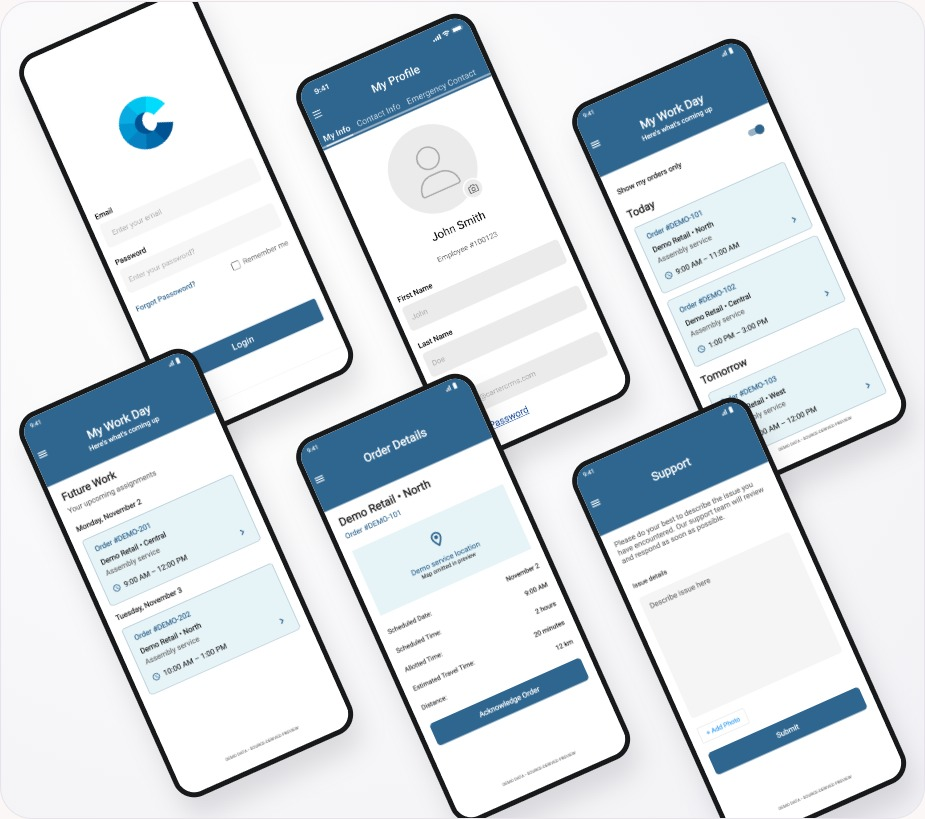
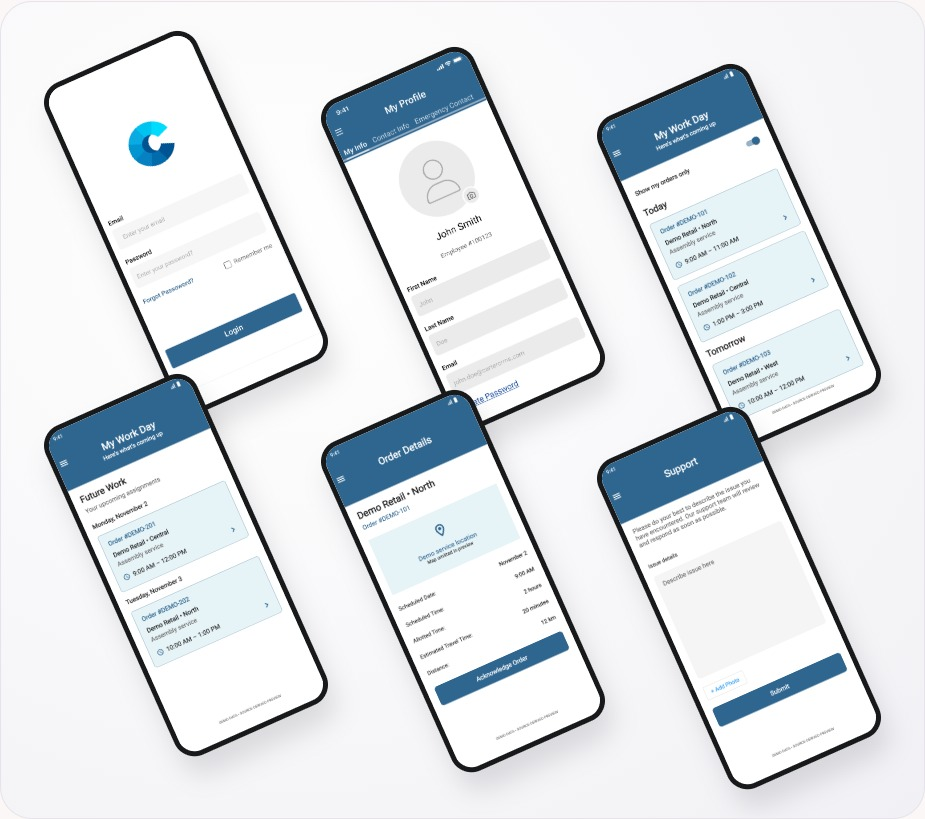
Keep Carter collage devices within frame and remove unused image duplicates

diff --git a/site/public/interactions/index.html b/site/public/interactions/index.html
@@ -1,4 +1,4 @@
-<!doctype html><html lang="en"><head><meta charset="utf-8"><meta name="viewport" content="width=device-width,initial-scale=1"><meta name="description" content="Gideon Ogbonna — Mobile & AI Engineer in Calgary. Thoughtful interfaces, reliable systems and human-centred AI."><link rel="canonical" href="https://gideonogbonna.dev/interactions/"><meta property="og:title" content="Client & team work — Gideon Ogbonna"><meta property="og:description" content="Gideon Ogbonna — Mobile & AI Engineer in Calgary. Thoughtful interfaces, reliable systems and human-centred AI."><meta property="og:type" content="website"><meta property="og:image" content="https://gideonogbonna.dev/assets/gideon-portrait.png"><meta name="theme-color" content="#f6f5f1"><title>Client & team work — Gideon Ogbonna</title><link rel="icon" href="/assets/gideon-logo.png"><link rel="stylesheet" href="/style.css?v=7bf13c7cb23f"><link rel="stylesheet" href="/reference.css?v=7b5f202a26aa"><link rel="stylesheet" href="/revision.css?v=392ed2de0eda"><link rel="stylesheet" href="/polish.css?v=a782f4869350"><link rel="stylesheet" href="/v2.css?v=24227c3ee307"><script src="/gallery.js?v=a1aa02686e3c" defer></script><script src="/app.js?v=1c5a148639c2" defer></script><script src="/motion.js?v=d562b8793593" defer></script></head><body><a class="skip" href="#main">Skip to content</a>
+<!doctype html><html lang="en"><head><meta charset="utf-8"><meta name="viewport" content="width=device-width,initial-scale=1"><meta name="description" content="Gideon Ogbonna — Mobile & AI Engineer in Calgary. Thoughtful interfaces, reliable systems and human-centred AI."><link rel="canonical" href="https://gideonogbonna.dev/interactions/"><meta property="og:title" content="Client & team work — Gideon Ogbonna"><meta property="og:description" content="Gideon Ogbonna — Mobile & AI Engineer in Calgary. Thoughtful interfaces, reliable systems and human-centred AI."><meta property="og:type" content="website"><meta property="og:image" content="https://gideonogbonna.dev/assets/gideon-portrait.png"><meta name="theme-color" content="#f6f5f1"><title>Client & team work — Gideon Ogbonna</title><link rel="icon" href="/assets/gideon-logo.png"><link rel="stylesheet" href="/style.css?v=7bf13c7cb23f"><link rel="stylesheet" href="/reference.css?v=7b5f202a26aa"><link rel="stylesheet" href="/revision.css?v=392ed2de0eda"><link rel="stylesheet" href="/polish.css?v=a782f4869350"><link rel="stylesheet" href="/v2.css?v=62aa0b123650"><script src="/gallery.js?v=a1aa02686e3c" defer></script><script src="/app.js?v=1c5a148639c2" defer></script><script src="/motion.js?v=d562b8793593" defer></script></head><body><a class="skip" href="#main">Skip to content</a>
 <header>
  <a class="brand" href="/" aria-label="Gideon Ogbonna home"><img class="brand-logo" src="/assets/gideon-logo.png" alt="Gideon"></a>
  <div class="header-right"><button class="theme icon" aria-label="Switch colour theme">◔</button><nav aria-label="Main navigation"><a href="/work/">Personal work</a><a href="/client-work/">Client work</a><a href="/#about">About</a><a href="/resume/">Résumé</a></nav><a class="outline contact-link" href="/#contact">Let’s talk <span>↗</span></a><button class="menu icon" aria-label="Open menu" aria-controls="menu-dialog" aria-expanded="false"><span></span><span></span></button></div>

diff --git a/site/public/client-work/index.html b/site/public/client-work/index.html
@@ -1,4 +1,4 @@
-<!doctype html><html lang="en"><head><meta charset="utf-8"><meta name="viewport" content="width=device-width,initial-scale=1"><meta name="description" content="Gideon Ogbonna — Mobile & AI Engineer in Calgary. Thoughtful interfaces, reliable systems and human-centred AI."><link rel="canonical" href="https://gideonogbonna.dev/client-work/"><meta property="og:title" content="Client & team work — Gideon Ogbonna"><meta property="og:description" content="Gideon Ogbonna — Mobile & AI Engineer in Calgary. Thoughtful interfaces, reliable systems and human-centred AI."><meta property="og:type" content="website"><meta property="og:image" content="https://gideonogbonna.dev/assets/gideon-portrait.png"><meta name="theme-color" content="#f6f5f1"><title>Client & team work — Gideon Ogbonna</title><link rel="icon" href="/assets/gideon-logo.png"><link rel="stylesheet" href="/style.css?v=7bf13c7cb23f"><link rel="stylesheet" href="/reference.css?v=7b5f202a26aa"><link rel="stylesheet" href="/revision.css?v=392ed2de0eda"><link rel="stylesheet" href="/polish.css?v=a782f4869350"><link rel="stylesheet" href="/v2.css?v=24227c3ee307"><script src="/gallery.js?v=a1aa02686e3c" defer></script><script src="/app.js?v=1c5a148639c2" defer></script><script src="/motion.js?v=d562b8793593" defer></script></head><body><a class="skip" href="#main">Skip to content</a>
+<!doctype html><html lang="en"><head><meta charset="utf-8"><meta name="viewport" content="width=device-width,initial-scale=1"><meta name="description" content="Gideon Ogbonna — Mobile & AI Engineer in Calgary. Thoughtful interfaces, reliable systems and human-centred AI."><link rel="canonical" href="https://gideonogbonna.dev/client-work/"><meta property="og:title" content="Client & team work — Gideon Ogbonna"><meta property="og:description" content="Gideon Ogbonna — Mobile & AI Engineer in Calgary. Thoughtful interfaces, reliable systems and human-centred AI."><meta property="og:type" content="website"><meta property="og:image" content="https://gideonogbonna.dev/assets/gideon-portrait.png"><meta name="theme-color" content="#f6f5f1"><title>Client & team work — Gideon Ogbonna</title><link rel="icon" href="/assets/gideon-logo.png"><link rel="stylesheet" href="/style.css?v=7bf13c7cb23f"><link rel="stylesheet" href="/reference.css?v=7b5f202a26aa"><link rel="stylesheet" href="/revision.css?v=392ed2de0eda"><link rel="stylesheet" href="/polish.css?v=a782f4869350"><link rel="stylesheet" href="/v2.css?v=62aa0b123650"><script src="/gallery.js?v=a1aa02686e3c" defer></script><script src="/app.js?v=1c5a148639c2" defer></script><script src="/motion.js?v=d562b8793593" defer></script></head><body><a class="skip" href="#main">Skip to content</a>
 <header>
  <a class="brand" href="/" aria-label="Gideon Ogbonna home"><img class="brand-logo" src="/assets/gideon-logo.png" alt="Gideon"></a>
  <div class="header-right"><button class="theme icon" aria-label="Switch colour theme">◔</button><nav aria-label="Main navigation"><a href="/work/">Personal work</a><a href="/client-work/">Client work</a><a href="/#about">About</a><a href="/resume/">Résumé</a></nav><a class="outline contact-link" href="/#contact">Let’s talk <span>↗</span></a><button class="menu icon" aria-label="Open menu" aria-controls="menu-dialog" aria-expanded="false"><span></span><span></span></button></div>

diff --git a/site/public/index.html b/site/public/index.html
@@ -1,4 +1,4 @@
-<!doctype html><html lang="en"><head><meta charset="utf-8"><meta name="viewport" content="width=device-width,initial-scale=1"><meta name="description" content="Gideon Ogbonna — Mobile & AI Engineer in Calgary. Thoughtful interfaces, reliable systems and human-centred AI."><link rel="canonical" href="https://gideonogbonna.dev/"><meta property="og:title" content="Mobile & AI Engineer — Gideon Ogbonna"><meta property="og:description" content="Gideon Ogbonna — Mobile & AI Engineer in Calgary. Thoughtful interfaces, reliable systems and human-centred AI."><meta property="og:type" content="website"><meta property="og:image" content="https://gideonogbonna.dev/assets/gideon-portrait.png"><meta name="theme-color" content="#f6f5f1"><title>Mobile & AI Engineer — Gideon Ogbonna</title><link rel="icon" href="/assets/gideon-logo.png"><link rel="stylesheet" href="/style.css?v=7bf13c7cb23f"><link rel="stylesheet" href="/reference.css?v=7b5f202a26aa"><link rel="stylesheet" href="/revision.css?v=392ed2de0eda"><link rel="stylesheet" href="/polish.css?v=a782f4869350"><link rel="stylesheet" href="/v2.css?v=24227c3ee307"><script src="/gallery.js?v=a1aa02686e3c" defer></script><script src="/app.js?v=1c5a148639c2" defer></script><script src="/motion.js?v=d562b8793593" defer></script></head><body><a class="skip" href="#main">Skip to content</a>
+<!doctype html><html lang="en"><head><meta charset="utf-8"><meta name="viewport" content="width=device-width,initial-scale=1"><meta name="description" content="Gideon Ogbonna — Mobile & AI Engineer in Calgary. Thoughtful interfaces, reliable systems and human-centred AI."><link rel="canonical" href="https://gideonogbonna.dev/"><meta property="og:title" content="Mobile & AI Engineer — Gideon Ogbonna"><meta property="og:description" content="Gideon Ogbonna — Mobile & AI Engineer in Calgary. Thoughtful interfaces, reliable systems and human-centred AI."><meta property="og:type" content="website"><meta property="og:image" content="https://gideonogbonna.dev/assets/gideon-portrait.png"><meta name="theme-color" content="#f6f5f1"><title>Mobile & AI Engineer — Gideon Ogbonna</title><link rel="icon" href="/assets/gideon-logo.png"><link rel="stylesheet" href="/style.css?v=7bf13c7cb23f"><link rel="stylesheet" href="/reference.css?v=7b5f202a26aa"><link rel="stylesheet" href="/revision.css?v=392ed2de0eda"><link rel="stylesheet" href="/polish.css?v=a782f4869350"><link rel="stylesheet" href="/v2.css?v=62aa0b123650"><script src="/gallery.js?v=a1aa02686e3c" defer></script><script src="/app.js?v=1c5a148639c2" defer></script><script src="/motion.js?v=d562b8793593" defer></script></head><body><a class="skip" href="#main">Skip to content</a>
 <header>
  <a class="brand" href="/" aria-label="Gideon Ogbonna home"><img class="brand-logo" src="/assets/gideon-logo.png" alt="Gideon"></a>
  <div class="header-right"><button class="theme icon" aria-label="Switch colour theme">◔</button><nav aria-label="Main navigation"><a href="/work/">Personal work</a><a href="/client-work/">Client work</a><a href="/#about">About</a><a href="/resume/">Résumé</a></nav><a class="outline contact-link" href="/#contact">Let’s talk <span>↗</span></a><button class="menu icon" aria-label="Open menu" aria-controls="menu-dialog" aria-expanded="false"><span></span><span></span></button></div>

diff --git a/site/public/work/index.html b/site/public/work/index.html
@@ -1,4 +1,4 @@
-<!doctype html><html lang="en"><head><meta charset="utf-8"><meta name="viewport" content="width=device-width,initial-scale=1"><meta name="description" content="Gideon Ogbonna — Mobile & AI Engineer in Calgary. Thoughtful interfaces, reliable systems and human-centred AI."><link rel="canonical" href="https://gideonogbonna.dev/work/"><meta property="og:title" content="Personal projects — Gideon Ogbonna"><meta property="og:description" content="Gideon Ogbonna — Mobile & AI Engineer in Calgary. Thoughtful interfaces, reliable systems and human-centred AI."><meta property="og:type" content="website"><meta property="og:image" content="https://gideonogbonna.dev/assets/gideon-portrait.png"><meta name="theme-color" content="#f6f5f1"><title>Personal projects — Gideon Ogbonna</title><link rel="icon" href="/assets/gideon-logo.png"><link rel="stylesheet" href="/style.css?v=7bf13c7cb23f"><link rel="stylesheet" href="/reference.css?v=7b5f202a26aa"><link rel="stylesheet" href="/revision.css?v=392ed2de0eda"><link rel="stylesheet" href="/polish.css?v=a782f4869350"><link rel="stylesheet" href="/v2.css?v=24227c3ee307"><script src="/gallery.js?v=a1aa02686e3c" defer></script><script src="/app.js?v=1c5a148639c2" defer></script><script src="/motion.js?v=d562b8793593" defer></script></head><body><a class="skip" href="#main">Skip to content</a>
+<!doctype html><html lang="en"><head><meta charset="utf-8"><meta name="viewport" content="width=device-width,initial-scale=1"><meta name="description" content="Gideon Ogbonna — Mobile & AI Engineer in Calgary. Thoughtful interfaces, reliable systems and human-centred AI."><link rel="canonical" href="https://gideonogbonna.dev/work/"><meta property="og:title" content="Personal projects — Gideon Ogbonna"><meta property="og:description" content="Gideon Ogbonna — Mobile & AI Engineer in Calgary. Thoughtful interfaces, reliable systems and human-centred AI."><meta property="og:type" content="website"><meta property="og:image" content="https://gideonogbonna.dev/assets/gideon-portrait.png"><meta name="theme-color" content="#f6f5f1"><title>Personal projects — Gideon Ogbonna</title><link rel="icon" href="/assets/gideon-logo.png"><link rel="stylesheet" href="/style.css?v=7bf13c7cb23f"><link rel="stylesheet" href="/reference.css?v=7b5f202a26aa"><link rel="stylesheet" href="/revision.css?v=392ed2de0eda"><link rel="stylesheet" href="/polish.css?v=a782f4869350"><link rel="stylesheet" href="/v2.css?v=62aa0b123650"><script src="/gallery.js?v=a1aa02686e3c" defer></script><script src="/app.js?v=1c5a148639c2" defer></script><script src="/motion.js?v=d562b8793593" defer></script></head><body><a class="skip" href="#main">Skip to content</a>
 <header>
  <a class="brand" href="/" aria-label="Gideon Ogbonna home"><img class="brand-logo" src="/assets/gideon-logo.png" alt="Gideon"></a>
  <div class="header-right"><button class="theme icon" aria-label="Switch colour theme">◔</button><nav aria-label="Main navigation"><a href="/work/">Personal work</a><a href="/client-work/">Client work</a><a href="/#about">About</a><a href="/resume/">Résumé</a></nav><a class="outline contact-link" href="/#contact">Let’s talk <span>↗</span></a><button class="menu icon" aria-label="Open menu" aria-controls="menu-dialog" aria-expanded="false"><span></span><span></span></button></div>

diff --git a/site/public/404.html b/site/public/404.html
@@ -1,4 +1,4 @@
-<!doctype html><html lang="en"><head><meta charset="utf-8"><meta name="viewport" content="width=device-width,initial-scale=1"><meta name="description" content="Gideon Ogbonna — Mobile & AI Engineer in Calgary. Thoughtful interfaces, reliable systems and human-centred AI."><link rel="canonical" href="https://gideonogbonna.dev/404.html"><meta property="og:title" content="Page not found — Gideon Ogbonna"><meta property="og:description" content="Gideon Ogbonna — Mobile & AI Engineer in Calgary. Thoughtful interfaces, reliable systems and human-centred AI."><meta property="og:type" content="website"><meta property="og:image" content="https://gideonogbonna.dev/assets/gideon-portrait.png"><meta name="theme-color" content="#f6f5f1"><title>Page not found — Gideon Ogbonna</title><link rel="icon" href="/assets/gideon-logo.png"><link rel="stylesheet" href="/style.css?v=7bf13c7cb23f"><link rel="stylesheet" href="/reference.css?v=7b5f202a26aa"><link rel="stylesheet" href="/revision.css?v=392ed2de0eda"><link rel="stylesheet" href="/polish.css?v=a782f4869350"><link rel="stylesheet" href="/v2.css?v=24227c3ee307"><script src="/gallery.js?v=a1aa02686e3c" defer></script><script src="/app.js?v=1c5a148639c2" defer></script><script src="/motion.js?v=d562b8793593" defer></script></head><body><a class="skip" href="#main">Skip to content</a>
+<!doctype html><html lang="en"><head><meta charset="utf-8"><meta name="viewport" content="width=device-width,initial-scale=1"><meta name="description" content="Gideon Ogbonna — Mobile & AI Engineer in Calgary. Thoughtful interfaces, reliable systems and human-centred AI."><link rel="canonical" href="https://gideonogbonna.dev/404.html"><meta property="og:title" content="Page not found — Gideon Ogbonna"><meta property="og:description" content="Gideon Ogbonna — Mobile & AI Engineer in Calgary. Thoughtful interfaces, reliable systems and human-centred AI."><meta property="og:type" content="website"><meta property="og:image" content="https://gideonogbonna.dev/assets/gideon-portrait.png"><meta name="theme-color" content="#f6f5f1"><title>Page not found — Gideon Ogbonna</title><link rel="icon" href="/assets/gideon-logo.png"><link rel="stylesheet" href="/style.css?v=7bf13c7cb23f"><link rel="stylesheet" href="/reference.css?v=7b5f202a26aa"><link rel="stylesheet" href="/revision.css?v=392ed2de0eda"><link rel="stylesheet" href="/polish.css?v=a782f4869350"><link rel="stylesheet" href="/v2.css?v=62aa0b123650"><script src="/gallery.js?v=a1aa02686e3c" defer></script><script src="/app.js?v=1c5a148639c2" defer></script><script src="/motion.js?v=d562b8793593" defer></script></head><body><a class="skip" href="#main">Skip to content</a>
 <header>
  <a class="brand" href="/" aria-label="Gideon Ogbonna home"><img class="brand-logo" src="/assets/gideon-logo.png" alt="Gideon"></a>
  <div class="header-right"><button class="theme icon" aria-label="Switch colour theme">◔</button><nav aria-label="Main navigation"><a href="/work/">Personal work</a><a href="/client-work/">Client work</a><a href="/#about">About</a><a href="/resume/">Résumé</a></nav><a class="outline contact-link" href="/#contact">Let’s talk <span>↗</span></a><button class="menu icon" aria-label="Open menu" aria-controls="menu-dialog" aria-expanded="false"><span></span><span></span></button></div>

diff --git a/site/public/resume/index.html b/site/public/resume/index.html
@@ -1,4 +1,4 @@
-<!doctype html><html lang="en"><head><meta charset="utf-8"><meta name="viewport" content="width=device-width,initial-scale=1"><meta name="description" content="Gideon Ogbonna — Mobile & AI Engineer in Calgary. Thoughtful interfaces, reliable systems and human-centred AI."><link rel="canonical" href="https://gideonogbonna.dev/resume/"><meta property="og:title" content="Résumé — Gideon Ogbonna"><meta property="og:description" content="Gideon Ogbonna — Mobile & AI Engineer in Calgary. Thoughtful interfaces, reliable systems and human-centred AI."><meta property="og:type" content="website"><meta property="og:image" content="https://gideonogbonna.dev/assets/gideon-portrait.png"><meta name="theme-color" content="#f6f5f1"><title>Résumé — Gideon Ogbonna</title><link rel="icon" href="/assets/gideon-logo.png"><link rel="stylesheet" href="/style.css?v=7bf13c7cb23f"><link rel="stylesheet" href="/reference.css?v=7b5f202a26aa"><link rel="stylesheet" href="/revision.css?v=392ed2de0eda"><link rel="stylesheet" href="/polish.css?v=a782f4869350"><link rel="stylesheet" href="/v2.css?v=24227c3ee307"><script src="/gallery.js?v=a1aa02686e3c" defer></script><script src="/app.js?v=1c5a148639c2" defer></script><script src="/motion.js?v=d562b8793593" defer></script></head><body><a class="skip" href="#main">Skip to content</a>
+<!doctype html><html lang="en"><head><meta charset="utf-8"><meta name="viewport" content="width=device-width,initial-scale=1"><meta name="description" content="Gideon Ogbonna — Mobile & AI Engineer in Calgary. Thoughtful interfaces, reliable systems and human-centred AI."><link rel="canonical" href="https://gideonogbonna.dev/resume/"><meta property="og:title" content="Résumé — Gideon Ogbonna"><meta property="og:description" content="Gideon Ogbonna — Mobile & AI Engineer in Calgary. Thoughtful interfaces, reliable systems and human-centred AI."><meta property="og:type" content="website"><meta property="og:image" content="https://gideonogbonna.dev/assets/gideon-portrait.png"><meta name="theme-color" content="#f6f5f1"><title>Résumé — Gideon Ogbonna</title><link rel="icon" href="/assets/gideon-logo.png"><link rel="stylesheet" href="/style.css?v=7bf13c7cb23f"><link rel="stylesheet" href="/reference.css?v=7b5f202a26aa"><link rel="stylesheet" href="/revision.css?v=392ed2de0eda"><link rel="stylesheet" href="/polish.css?v=a782f4869350"><link rel="stylesheet" href="/v2.css?v=62aa0b123650"><script src="/gallery.js?v=a1aa02686e3c" defer></script><script src="/app.js?v=1c5a148639c2" defer></script><script src="/motion.js?v=d562b8793593" defer></script></head><body><a class="skip" href="#main">Skip to content</a>
 <header>
  <a class="brand" href="/" aria-label="Gideon Ogbonna home"><img class="brand-logo" src="/assets/gideon-logo.png" alt="Gideon"></a>
  <div class="header-right"><button class="theme icon" aria-label="Switch colour theme">◔</button><nav aria-label="Main navigation"><a href="/work/">Personal work</a><a href="/client-work/">Client work</a><a href="/#about">About</a><a href="/resume/">Résumé</a></nav><a class="outline contact-link" href="/#contact">Let’s talk <span>↗</span></a><button class="menu icon" aria-label="Open menu" aria-controls="menu-dialog" aria-expanded="false"><span></span><span></span></button></div>

diff --git a/site/public/projects/rightq-welcomer/index.html b/site/public/projects/rightq-welcomer/index.html
@@ -1,4 +1,4 @@
-<!doctype html><html lang="en"><head><meta charset="utf-8"><meta name="viewport" content="width=device-width,initial-scale=1"><meta name="description" content="A mobile companion for front-desk teams, connecting service selection with a place in the queue."><link rel="canonical" href="https://gideonogbonna.dev/projects/rightq-welcomer/"><meta property="og:title" content="RightQ Welcomer — Gideon Ogbonna"><meta property="og:description" content="A mobile companion for front-desk teams, connecting service selection with a place in the queue."><meta property="og:type" content="website"><meta property="og:image" content="https://gideonogbonna.dev/assets/gideon-portrait.png"><meta name="theme-color" content="#f6f5f1"><title>RightQ Welcomer — Gideon Ogbonna</title><link rel="icon" href="/assets/gideon-logo.png"><link rel="stylesheet" href="/style.css?v=7bf13c7cb23f"><link rel="stylesheet" href="/reference.css?v=7b5f202a26aa"><link rel="stylesheet" href="/revision.css?v=392ed2de0eda"><link rel="stylesheet" href="/polish.css?v=a782f4869350"><link rel="stylesheet" href="/v2.css?v=24227c3ee307"><script src="/gallery.js?v=a1aa02686e3c" defer></script><script src="/app.js?v=1c5a148639c2" defer></script><script src="/motion.js?v=d562b8793593" defer></script></head><body><a class="skip" href="#main">Skip to content</a>
+<!doctype html><html lang="en"><head><meta charset="utf-8"><meta name="viewport" content="width=device-width,initial-scale=1"><meta name="description" content="A mobile companion for front-desk teams, connecting service selection with a place in the queue."><link rel="canonical" href="https://gideonogbonna.dev/projects/rightq-welcomer/"><meta property="og:title" content="RightQ Welcomer — Gideon Ogbonna"><meta property="og:description" content="A mobile companion for front-desk teams, connecting service selection with a place in the queue."><meta property="og:type" content="website"><meta property="og:image" content="https://gideonogbonna.dev/assets/gideon-portrait.png"><meta name="theme-color" content="#f6f5f1"><title>RightQ Welcomer — Gideon Ogbonna</title><link rel="icon" href="/assets/gideon-logo.png"><link rel="stylesheet" href="/style.css?v=7bf13c7cb23f"><link rel="stylesheet" href="/reference.css?v=7b5f202a26aa"><link rel="stylesheet" href="/revision.css?v=392ed2de0eda"><link rel="stylesheet" href="/polish.css?v=a782f4869350"><link rel="stylesheet" href="/v2.css?v=62aa0b123650"><script src="/gallery.js?v=a1aa02686e3c" defer></script><script src="/app.js?v=1c5a148639c2" defer></script><script src="/motion.js?v=d562b8793593" defer></script></head><body><a class="skip" href="#main">Skip to content</a>
 <header>
  <a class="brand" href="/" aria-label="Gideon Ogbonna home"><img class="brand-logo" src="/assets/gideon-logo.png" alt="Gideon"></a>
  <div class="header-right"><button class="theme icon" aria-label="Switch colour theme">◔</button><nav aria-label="Main navigation"><a href="/work/">Personal work</a><a href="/client-work/">Client work</a><a href="/#about">About</a><a href="/resume/">Résumé</a></nav><a class="outline contact-link" href="/#contact">Let’s talk <span>↗</span></a><button class="menu icon" aria-label="Open menu" aria-controls="menu-dialog" aria-expanded="false"><span></span><span></span></button></div>

diff --git a/site/public/projects/eduportal/index.html b/site/public/projects/eduportal/index.html
@@ -1,4 +1,4 @@
-<!doctype html><html lang="en"><head><meta charset="utf-8"><meta name="viewport" content="width=device-width,initial-scale=1"><meta name="description" content="An education companion that brings school access, assignments and results into a mobile experience."><link rel="canonical" href="https://gideonogbonna.dev/projects/eduportal/"><meta property="og:title" content="Eduportal — Gideon Ogbonna"><meta property="og:description" content="An education companion that brings school access, assignments and results into a mobile experience."><meta property="og:type" content="website"><meta property="og:image" content="https://gideonogbonna.dev/assets/gideon-portrait.png"><meta name="theme-color" content="#f6f5f1"><title>Eduportal — Gideon Ogbonna</title><link rel="icon" href="/assets/gideon-logo.png"><link rel="stylesheet" href="/style.css?v=7bf13c7cb23f"><link rel="stylesheet" href="/reference.css?v=7b5f202a26aa"><link rel="stylesheet" href="/revision.css?v=392ed2de0eda"><link rel="stylesheet" href="/polish.css?v=a782f4869350"><link rel="stylesheet" href="/v2.css?v=24227c3ee307"><script src="/gallery.js?v=a1aa02686e3c" defer></script><script src="/app.js?v=1c5a148639c2" defer></script><script src="/motion.js?v=d562b8793593" defer></script></head><body><a class="skip" href="#main">Skip to content</a>
+<!doctype html><html lang="en"><head><meta charset="utf-8"><meta name="viewport" content="width=device-width,initial-scale=1"><meta name="description" content="An education companion that brings school access, assignments and results into a mobile experience."><link rel="canonical" href="https://gideonogbonna.dev/projects/eduportal/"><meta property="og:title" content="Eduportal — Gideon Ogbonna"><meta property="og:description" content="An education companion that brings school access, assignments and results into a mobile experience."><meta property="og:type" content="website"><meta property="og:image" content="https://gideonogbonna.dev/assets/gideon-portrait.png"><meta name="theme-color" content="#f6f5f1"><title>Eduportal — Gideon Ogbonna</title><link rel="icon" href="/assets/gideon-logo.png"><link rel="stylesheet" href="/style.css?v=7bf13c7cb23f"><link rel="stylesheet" href="/reference.css?v=7b5f202a26aa"><link rel="stylesheet" href="/revision.css?v=392ed2de0eda"><link rel="stylesheet" href="/polish.css?v=a782f4869350"><link rel="stylesheet" href="/v2.css?v=62aa0b123650"><script src="/gallery.js?v=a1aa02686e3c" defer></script><script src="/app.js?v=1c5a148639c2" defer></script><script src="/motion.js?v=d562b8793593" defer></script></head><body><a class="skip" href="#main">Skip to content</a>
 <header>
  <a class="brand" href="/" aria-label="Gideon Ogbonna home"><img class="brand-logo" src="/assets/gideon-logo.png" alt="Gideon"></a>
  <div class="header-right"><button class="theme icon" aria-label="Switch colour theme">◔</button><nav aria-label="Main navigation"><a href="/work/">Personal work</a><a href="/client-work/">Client work</a><a href="/#about">About</a><a href="/resume/">Résumé</a></nav><a class="outline contact-link" href="/#contact">Let’s talk <span>↗</span></a><button class="menu icon" aria-label="Open menu" aria-controls="menu-dialog" aria-expanded="false"><span></span><span></span></button></div>

diff --git a/site/public/projects/storri/index.html b/site/public/projects/storri/index.html
@@ -1,4 +1,4 @@
-<!doctype html><html lang="en"><head><meta charset="utf-8"><meta name="viewport" content="width=device-width,initial-scale=1"><meta name="description" content="A mobile storytelling experience with account creation, interests and a visual discovery feed."><link rel="canonical" href="https://gideonogbonna.dev/projects/storri/"><meta property="og:title" content="Storri.ai — Gideon Ogbonna"><meta property="og:description" content="A mobile storytelling experience with account creation, interests and a visual discovery feed."><meta property="og:type" content="website"><meta property="og:image" content="https://gideonogbonna.dev/assets/gideon-portrait.png"><meta name="theme-color" content="#f6f5f1"><title>Storri.ai — Gideon Ogbonna</title><link rel="icon" href="/assets/gideon-logo.png"><link rel="stylesheet" href="/style.css?v=7bf13c7cb23f"><link rel="stylesheet" href="/reference.css?v=7b5f202a26aa"><link rel="stylesheet" href="/revision.css?v=392ed2de0eda"><link rel="stylesheet" href="/polish.css?v=a782f4869350"><link rel="stylesheet" href="/v2.css?v=24227c3ee307"><script src="/gallery.js?v=a1aa02686e3c" defer></script><script src="/app.js?v=1c5a148639c2" defer></script><script src="/motion.js?v=d562b8793593" defer></script></head><body><a class="skip" href="#main">Skip to content</a>
+<!doctype html><html lang="en"><head><meta charset="utf-8"><meta name="viewport" content="width=device-width,initial-scale=1"><meta name="description" content="A mobile storytelling experience with account creation, interests and a visual discovery feed."><link rel="canonical" href="https://gideonogbonna.dev/projects/storri/"><meta property="og:title" content="Storri.ai — Gideon Ogbonna"><meta property="og:description" content="A mobile storytelling experience with account creation, interests and a visual discovery feed."><meta property="og:type" content="website"><meta property="og:image" content="https://gideonogbonna.dev/assets/gideon-portrait.png"><meta name="theme-color" content="#f6f5f1"><title>Storri.ai — Gideon Ogbonna</title><link rel="icon" href="/assets/gideon-logo.png"><link rel="stylesheet" href="/style.css?v=7bf13c7cb23f"><link rel="stylesheet" href="/reference.css?v=7b5f202a26aa"><link rel="stylesheet" href="/revision.css?v=392ed2de0eda"><link rel="stylesheet" href="/polish.css?v=a782f4869350"><link rel="stylesheet" href="/v2.css?v=62aa0b123650"><script src="/gallery.js?v=a1aa02686e3c" defer></script><script src="/app.js?v=1c5a148639c2" defer></script><script src="/motion.js?v=d562b8793593" defer></script></head><body><a class="skip" href="#main">Skip to content</a>
 <header>
  <a class="brand" href="/" aria-label="Gideon Ogbonna home"><img class="brand-logo" src="/assets/gideon-logo.png" alt="Gideon"></a>
  <div class="header-right"><button class="theme icon" aria-label="Switch colour theme">◔</button><nav aria-label="Main navigation"><a href="/work/">Personal work</a><a href="/client-work/">Client work</a><a href="/#about">About</a><a href="/resume/">Résumé</a></nav><a class="outline contact-link" href="/#contact">Let’s talk <span>↗</span></a><button class="menu icon" aria-label="Open menu" aria-controls="menu-dialog" aria-expanded="false"><span></span><span></span></button></div>

diff --git a/site/public/projects/bloverse/index.html b/site/public/projects/bloverse/index.html
@@ -1,4 +1,4 @@
-<!doctype html><html lang="en"><head><meta charset="utf-8"><meta name="viewport" content="width=device-width,initial-scale=1"><meta name="description" content="A video-led social experience built around visual stories and a familiar mobile feed."><link rel="canonical" href="https://gideonogbonna.dev/projects/bloverse/"><meta property="og:title" content="Bloverse — Gideon Ogbonna"><meta property="og:description" content="A video-led social experience built around visual stories and a familiar mobile feed."><meta property="og:type" content="website"><meta property="og:image" content="https://gideonogbonna.dev/assets/gideon-portrait.png"><meta name="theme-color" content="#f6f5f1"><title>Bloverse — Gideon Ogbonna</title><link rel="icon" href="/assets/gideon-logo.png"><link rel="stylesheet" href="/style.css?v=7bf13c7cb23f"><link rel="stylesheet" href="/reference.css?v=7b5f202a26aa"><link rel="stylesheet" href="/revision.css?v=392ed2de0eda"><link rel="stylesheet" href="/polish.css?v=a782f4869350"><link rel="stylesheet" href="/v2.css?v=24227c3ee307"><script src="/gallery.js?v=a1aa02686e3c" defer></script><script src="/app.js?v=1c5a148639c2" defer></script><script src="/motion.js?v=d562b8793593" defer></script></head><body><a class="skip" href="#main">Skip to content</a>
+<!doctype html><html lang="en"><head><meta charset="utf-8"><meta name="viewport" content="width=device-width,initial-scale=1"><meta name="description" content="A video-led social experience built around visual stories and a familiar mobile feed."><link rel="canonical" href="https://gideonogbonna.dev/projects/bloverse/"><meta property="og:title" content="Bloverse — Gideon Ogbonna"><meta property="og:description" content="A video-led social experience built around visual stories and a familiar mobile feed."><meta property="og:type" content="website"><meta property="og:image" content="https://gideonogbonna.dev/assets/gideon-portrait.png"><meta name="theme-color" content="#f6f5f1"><title>Bloverse — Gideon Ogbonna</title><link rel="icon" href="/assets/gideon-logo.png"><link rel="stylesheet" href="/style.css?v=7bf13c7cb23f"><link rel="stylesheet" href="/reference.css?v=7b5f202a26aa"><link rel="stylesheet" href="/revision.css?v=392ed2de0eda"><link rel="stylesheet" href="/polish.css?v=a782f4869350"><link rel="stylesheet" href="/v2.css?v=62aa0b123650"><script src="/gallery.js?v=a1aa02686e3c" defer></script><script src="/app.js?v=1c5a148639c2" defer></script><script src="/motion.js?v=d562b8793593" defer></script></head><body><a class="skip" href="#main">Skip to content</a>
 <header>
  <a class="brand" href="/" aria-label="Gideon Ogbonna home"><img class="brand-logo" src="/assets/gideon-logo.png" alt="Gideon"></a>
  <div class="header-right"><button class="theme icon" aria-label="Switch colour theme">◔</button><nav aria-label="Main navigation"><a href="/work/">Personal work</a><a href="/client-work/">Client work</a><a href="/#about">About</a><a href="/resume/">Résumé</a></nav><a class="outline contact-link" href="/#contact">Let’s talk <span>↗</span></a><button class="menu icon" aria-label="Open menu" aria-controls="menu-dialog" aria-expanded="false"><span></span><span></span></button></div>

diff --git a/site/public/projects/carter/index.html b/site/public/projects/carter/index.html
@@ -1,4 +1,4 @@
-<!doctype html><html lang="en"><head><meta charset="utf-8"><meta name="viewport" content="width=device-width,initial-scale=1"><meta name="description" content="Field service, connected. Mobile operations at Danihel Group Inc."><link rel="canonical" href="https://gideonogbonna.dev/projects/carter/"><meta property="og:title" content="Carter App — Gideon Ogbonna"><meta property="og:description" content="Field service, connected. Mobile operations at Danihel Group Inc."><meta property="og:type" content="website"><meta property="og:image" content="https://gideonogbonna.dev/assets/gideon-portrait.png"><meta name="theme-color" content="#f6f5f1"><title>Carter App — Gideon Ogbonna</title><link rel="icon" href="/assets/gideon-logo.png"><link rel="stylesheet" href="/style.css?v=7bf13c7cb23f"><link rel="stylesheet" href="/reference.css?v=7b5f202a26aa"><link rel="stylesheet" href="/revision.css?v=392ed2de0eda"><link rel="stylesheet" href="/polish.css?v=a782f4869350"><link rel="stylesheet" href="/v2.css?v=24227c3ee307"><script src="/gallery.js?v=a1aa02686e3c" defer></script><script src="/app.js?v=1c5a148639c2" defer></script><script src="/motion.js?v=d562b8793593" defer></script></head><body><a class="skip" href="#main">Skip to content</a>
+<!doctype html><html lang="en"><head><meta charset="utf-8"><meta name="viewport" content="width=device-width,initial-scale=1"><meta name="description" content="Field service, connected. Mobile operations at Danihel Group Inc."><link rel="canonical" href="https://gideonogbonna.dev/projects/carter/"><meta property="og:title" content="Carter App — Gideon Ogbonna"><meta property="og:description" content="Field service, connected. Mobile operations at Danihel Group Inc."><meta property="og:type" content="website"><meta property="og:image" content="https://gideonogbonna.dev/assets/gideon-portrait.png"><meta name="theme-color" content="#f6f5f1"><title>Carter App — Gideon Ogbonna</title><link rel="icon" href="/assets/gideon-logo.png"><link rel="stylesheet" href="/style.css?v=7bf13c7cb23f"><link rel="stylesheet" href="/reference.css?v=7b5f202a26aa"><link rel="stylesheet" href="/revision.css?v=392ed2de0eda"><link rel="stylesheet" href="/polish.css?v=a782f4869350"><link rel="stylesheet" href="/v2.css?v=62aa0b123650"><script src="/gallery.js?v=a1aa02686e3c" defer></script><script src="/app.js?v=1c5a148639c2" defer></script><script src="/motion.js?v=d562b8793593" defer></script></head><body><a class="skip" href="#main">Skip to content</a>
 <header>
  <a class="brand" href="/" aria-label="Gideon Ogbonna home"><img class="brand-logo" src="/assets/gideon-logo.png" alt="Gideon"></a>
  <div class="header-right"><button class="theme icon" aria-label="Switch colour theme">◔</button><nav aria-label="Main navigation"><a href="/work/">Personal work</a><a href="/client-work/">Client work</a><a href="/#about">About</a><a href="/resume/">Résumé</a></nav><a class="outline contact-link" href="/#contact">Let’s talk <span>↗</span></a><button class="menu icon" aria-label="Open menu" aria-controls="menu-dialog" aria-expanded="false"><span></span><span></span></button></div>

diff --git a/site/public/projects/voice-to-action/index.html b/site/public/projects/voice-to-action/index.html
@@ -1,4 +1,4 @@
-<!doctype html><html lang="en"><head><meta charset="utf-8"><meta name="viewport" content="width=device-width,initial-scale=1"><meta name="description" content="A spoken thought. A considered next step."><link rel="canonical" href="https://gideonogbonna.dev/projects/voice-to-action/"><meta property="og:title" content="Voice to Action — Gideon Ogbonna"><meta property="og:description" content="A spoken thought. A considered next step."><meta property="og:type" content="website"><meta property="og:image" content="https://gideonogbonna.dev/assets/gideon-portrait.png"><meta name="theme-color" content="#f6f5f1"><title>Voice to Action — Gideon Ogbonna</title><link rel="icon" href="/assets/gideon-logo.png"><link rel="stylesheet" href="/style.css?v=7bf13c7cb23f"><link rel="stylesheet" href="/reference.css?v=7b5f202a26aa"><link rel="stylesheet" href="/revision.css?v=392ed2de0eda"><link rel="stylesheet" href="/polish.css?v=a782f4869350"><link rel="stylesheet" href="/v2.css?v=24227c3ee307"><script src="/gallery.js?v=a1aa02686e3c" defer></script><script src="/app.js?v=1c5a148639c2" defer></script><script src="/motion.js?v=d562b8793593" defer></script></head><body><a class="skip" href="#main">Skip to content</a>
+<!doctype html><html lang="en"><head><meta charset="utf-8"><meta name="viewport" content="width=device-width,initial-scale=1"><meta name="description" content="A spoken thought. A considered next step."><link rel="canonical" href="https://gideonogbonna.dev/projects/voice-to-action/"><meta property="og:title" content="Voice to Action — Gideon Ogbonna"><meta property="og:description" content="A spoken thought. A considered next step."><meta property="og:type" content="website"><meta property="og:image" content="https://gideonogbonna.dev/assets/gideon-portrait.png"><meta name="theme-color" content="#f6f5f1"><title>Voice to Action — Gideon Ogbonna</title><link rel="icon" href="/assets/gideon-logo.png"><link rel="stylesheet" href="/style.css?v=7bf13c7cb23f"><link rel="stylesheet" href="/reference.css?v=7b5f202a26aa"><link rel="stylesheet" href="/revision.css?v=392ed2de0eda"><link rel="stylesheet" href="/polish.css?v=a782f4869350"><link rel="stylesheet" href="/v2.css?v=62aa0b123650"><script src="/gallery.js?v=a1aa02686e3c" defer></script><script src="/app.js?v=1c5a148639c2" defer></script><script src="/motion.js?v=d562b8793593" defer></script></head><body><a class="skip" href="#main">Skip to content</a>
 <header>
  <a class="brand" href="/" aria-label="Gideon Ogbonna home"><img class="brand-logo" src="/assets/gideon-logo.png" alt="Gideon"></a>
  <div class="header-right"><button class="theme icon" aria-label="Switch colour theme">◔</button><nav aria-label="Main navigation"><a href="/work/">Personal work</a><a href="/client-work/">Client work</a><a href="/#about">About</a><a href="/resume/">Résumé</a></nav><a class="outline contact-link" href="/#contact">Let’s talk <span>↗</span></a><button class="menu icon" aria-label="Open menu" aria-controls="menu-dialog" aria-expanded="false"><span></span><span></span></button></div>
